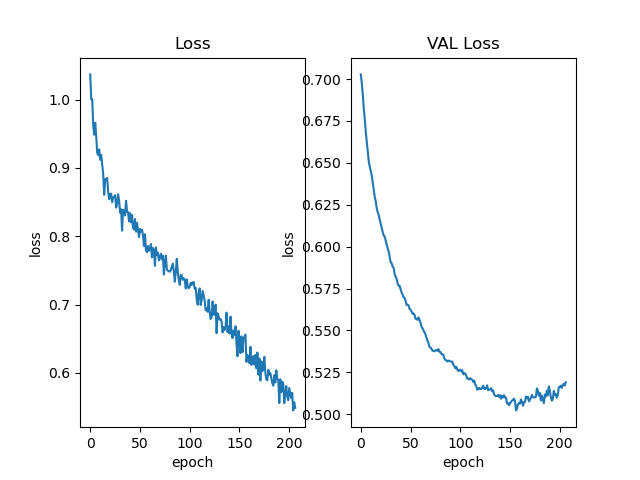
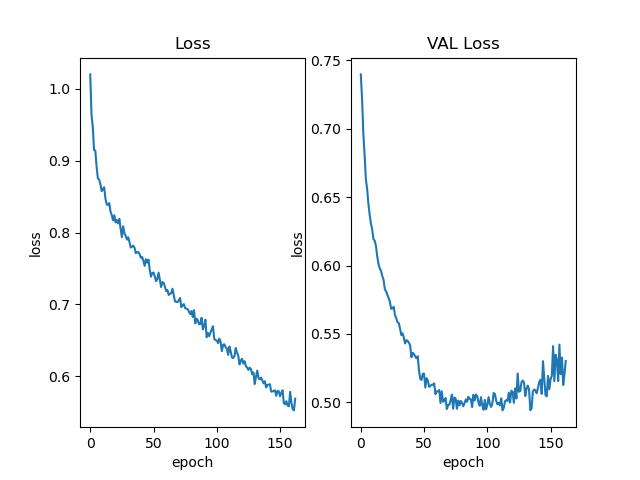
cross training

diff --git a/text_audio_train2.py b/text_audio_train2.py
@@ -38,7 +38,7 @@ def get_df(gmap_dir, msf_dir, txt_dir, class_name):
     text_len = 768
     # print(pd.read_csv(gmap[0], sep = ';', header = None, skiprows = [0]).columns)
     # print(gmap_len)
-    # print('#', gmap_len, text_len)
+    # print('# 223', gmap_len, text_len)
     full = pd.DataFrame(columns = list(range(223 + gmap_len + text_len - 2)) + ['class'])
     # print(len(full.columns))
     i = 0
@@ -48,7 +48,7 @@ def get_df(gmap_dir, msf_dir, txt_dir, class_name):
         msf_curr = msf_dir + f
         txt_curr = txt_dir + f
 
-        gmap_df = pd.read_csv(gmap_curr, sep = ';', header = None, skiprows = [0])
+        gmap_df = pd.read_csv(gmap_curr, sep = ';', header = None, skiprows = [0], index_col = False)
         gmap_df.drop([0, 1], axis = 1, inplace = True)
         # print('gmap', list(gmap_df.loc[0]))
         msf_df = pd.read_csv(msf_curr, sep = ',', header = None).mean(axis = 0)
@@ -105,22 +105,35 @@ gmap_grand = '../../mitacs/MELD_noise_eGEMAPS_feat/'
 msf_grand = '../../mitacs/MELD_dataset_MSF/'
 txt_grand = '../../mitacs/MELD_text/'
 
-txt_noise = 'clean'
-# aud_noise = txt_noise
-aud_noise = 'clean'
+noise = 'clean'
+noise2 = ['_0dB', '_10dB', '_20dB']
+noise_type = 'airport'
+aud_noise = noise
+txt_noise = noise
 
 
 name = 'text_' + txt_noise + '_aud_' + aud_noise + '_training'
 
-train_csv = wrapper(gmap_grand, msf_grand, txt_grand, 'train', aud_noise, txt_noise)
-test_csv = wrapper(gmap_grand, msf_grand, txt_grand, 'test', aud_noise, txt_noise)
-dev_csv = wrapper(gmap_grand, msf_grand, txt_grand, 'dev', aud_noise, txt_noise)
+train_csv = wrapper(gmap_grand, msf_grand, txt_grand, 'train', noise, noise)
+test_csv = wrapper(gmap_grand, msf_grand, txt_grand, 'test', noise, noise)
+dev_csv = wrapper(gmap_grand, msf_grand, txt_grand, 'dev', noise, noise)
 
 X_train, y_train = splitXY(train_csv)
 X_test, y_test = splitXY(test_csv)
 X_dev, y_dev = splitXY(dev_csv)
 
+print(X_train.shape)
+
 # print("Saved files")
+for n in noise2:
+    n1 = noise_type + n
+    print('\n', n1, '\n')
+    dset_csv = wrapper(gmap_grand, msf_grand, txt_grand, 'train', n1, n1)
+    dx_train, dy_train = splitXY(dset_csv)
+    # print(dx_train.shape)
+    X_train = np.concatenate([X_train, dx_train], axis = 0)
+    y_train = np.concatenate([y_train, dy_train], axis = 0) 
+    # print(X_train.shape)
 
 # DP = DataPreparer.ParentDataPrep(X_train, y_train, X_test, y_test, X_dev, y_dev)
 
@@ -133,7 +146,7 @@ X_dev = scaler.transform(X_dev)
 print(np.max(X_train), np.min(X_train))
 print(np.max(X_dev), np.min(X_dev))
 print(np.max(X_test), np.min(X_test))
-dump(scaler, open('../models/clean_scaler.pkl', 'wb'))
+dump(scaler, open('../models/c_' + noise_type + '_scaler.pkl', 'wb'))
 
 print("Done scaling data")
 
@@ -155,4 +168,4 @@ print(nnn_metrics)
 
 model = nnn.get_model()
 # dump(model, open('../models/clean.pkl', 'wb'))
-model.save('../models/clean.h5', include_optimizer = False)
+model.save('../models/clean_' + noise_type + '.h5', include_optimizer = False)

diff --git a/text_audio_test.py b/text_audio_test.py
@@ -105,14 +105,17 @@ gmap_grand = '../../mitacs/MELD_noise_eGEMAPS_feat/'
 msf_grand = '../../mitacs/MELD_dataset_MSF/'
 txt_grand = '../../mitacs/MELD_text/'
 
-txt_noise = 'clean'
+txt_noise = 'babble_20dB'
 # aud_noise = txt_noise
-aud_noise = 'babble_0dB'
+aud_noise = 'clean'
+
+scaler_name = '../models/c_airport_scaler.pkl'
+model_name = '../models/clean_airport.h5'
 
 test_csv = wrapper(gmap_grand, msf_grand, txt_grand, 'test', aud_noise, txt_noise)
 X_test, y_test = splitXY(test_csv)
 
-scaler = load(open('../models/clean_scaler.pkl', 'rb'))
+scaler = load(open(scaler_name, 'rb'))
 X_test = scaler.transform(X_test)
 
 
@@ -124,7 +127,7 @@ class_names = ['anger', 'sad']
 nnn = Models.NormalNeuralNetwork(0.3, class_names, (X_test.shape[1], ))
 sgd = optimizers.SGD(lr=1e-4, decay=1e-6, momentum=0.95, nesterov=False)
 
-nnn.l_model('../models/clean.h5', sgd)
+nnn.l_model(model_name, sgd)
 
 nnn_metrics = nnn.get_metrics(X_test, y_test)
 print(nnn_metrics['Bal_Acc'])
